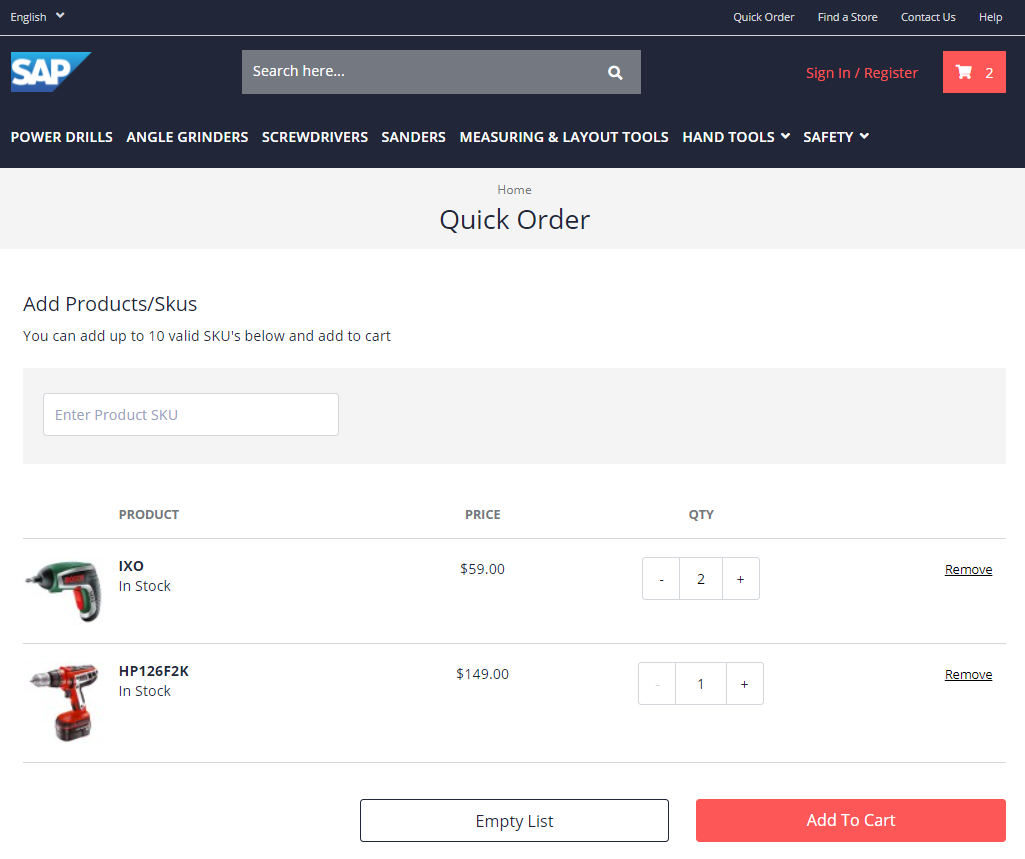
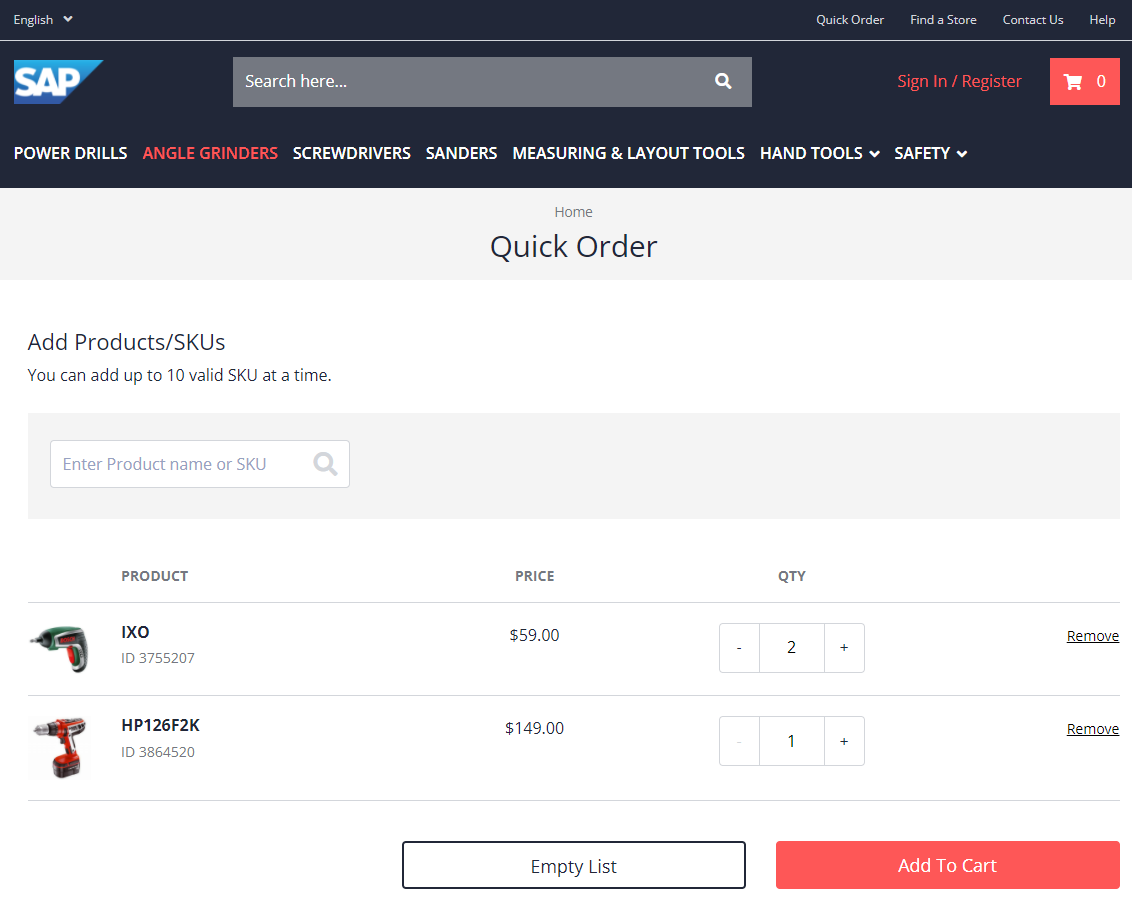
Added new sections to quick order and update another

diff --git a/_pages/dev/features/quick-order.md b/_pages/dev/features/quick-order.md
@@ -21,7 +21,7 @@ For more information, see [Quick Order](https://help.sap.com/viewer/4c33bf189ab9
 **Table of Contents**
 
 - This will become a table of contents (this text will be scrapped).
-{:toc}
+  {:toc}
 
 ***
 
@@ -101,14 +101,30 @@ By default, you can add up to ten products to the **Quick Order List**, but you 
 
 ```ts
 provideConfig(<CmsConfig>{
-      cmsComponents: {
-        QuickOrderComponent: {
-          data: {
-            quickOrderListLimit: <yourValue>
-          }
-        },
-      },
-    }),
+  cmsComponents: {
+    QuickOrderComponent: {
+      data: {
+        quickOrderListLimit: <yourValue>
+      }
+    },
+  },
+}),
+```
+
+### Modifying Quick Order Form Config
+
+By default, suggestion box appears after 3 characters with maximum 5 products with images. You can modify this value by providing a different configuration.
+
+You can modify the default config, as shown in the following example:
+
+```ts
+provideConfig(<QuickOrderFormConfig>{
+  quickOrderForm: {
+    displayProductImages: <yourValue>,
+    maxProducts: <yourValue>,
+    displayProductImages: <yourValue>
+  }
+}),
 ```
 
 ## Using Quick Order
@@ -133,19 +149,29 @@ Even if you are not logged in, you can add products to the cart using the Quick 
 
    <img src="{{ site.baseurl }}/assets/images/quick-order-3.png" alt="Cart Quick Order Form" width="700" border="1px" />
 
-### Adding Products with the Quick Order Page
+### Using the Quick Order Page
 
-The **Quick Order** page provides a form for adding new products, and displays a list of products that have already been added. The list includes information about the products that have been added to the Quick Order page, such as the product image, name, availability, price, and quantity that you want to add to your cart. The following is an example:
+The following sections describe how to use the Quick Order feature in the Spartacus storefront.
+
+## Adding Products with the Quick Order Page
+
+The **Quick Order** page provides a form for adding new products from suggestions, and displays a list of products that have already been added. The list includes information about the products that have been added to the Quick Order page, such as the product image, name, availability, price, and quantity that you want to add to your cart. The following is an example:
 
 <img src="{{ site.baseurl }}/assets/images/quick-order-4.png" alt="Quick Order Page" width="700" border="1px" />
 
 You can add products to the Quick Order list and then to your cart, as follows:
 
-1. Enter a product SKU in the form and press <kbd>Enter</kbd>.
+1. Enter a product name, SKU or any characters in the form and wait for suggestions box.
+
+   The suggestions box appears below the form after 3 characters (default value, it can be modify with `QuickOrderFormConfig` ).
+
+   <img src="{{ site.baseurl }}/assets/images/quick-order-8.png" alt="Quick Order Form Suggestion Box" width="700" border="1px" />
+
+2. If there is only one product in suggestions you can directly press <kbd>Enter</kbd> to add the product. If there are more products you can select product to add by clicking on it or you can navigate to the product using keyboard arrows <kbd>Up</kbd> or <kbd>Down</kbd> and to confirm selection press <kbd>Enter</kbd>.
 
    The newly-added product appears in the Quick Order list.
 
-1. Click **Add To Cart**.
+3. Click **Add To Cart**.
 
    A global message informs you that the items have been added to the cart, and the Quick Order list is reset to an empty state, as shown in the following example:
 
@@ -154,3 +180,17 @@ You can add products to the Quick Order list and then to your cart, as follows:
    If any product in the Quick Order list is out of stock, or if it was not possible to add the full quantity of a product to the cart, an error message is displayed at the top of the page, as shown in the following example:
 
    <img src="{{ site.baseurl }}/assets/images/quick-order-6.png" alt="Quick Order Page With Errors" width="700" border="1px" />
+
+## Restore deleted product in the Quick Order Page
+
+This feature allows to restore deleted products from the Quick Order list. The following is an example:
+
+1. Add at least one product to the list and then click **Remove** on any row.
+
+A global message informs you that the product have been moved to trash. This message will disappear after 5 seconds _(This is the default value of timeout. It is possible to edit it by overwriting property **hardDeleteTimeout** in `QuickOrderService`)_.
+
+1. Click **Undo** to restore the product, before the global message disappears.
+
+Previously deleted product appears again in the Quick Order list.
+
+  <img src="{{ site.baseurl }}/assets/images/quick-order-7.png" alt="Quick Order Page With Deleted Product" width="700" border="1px" />
